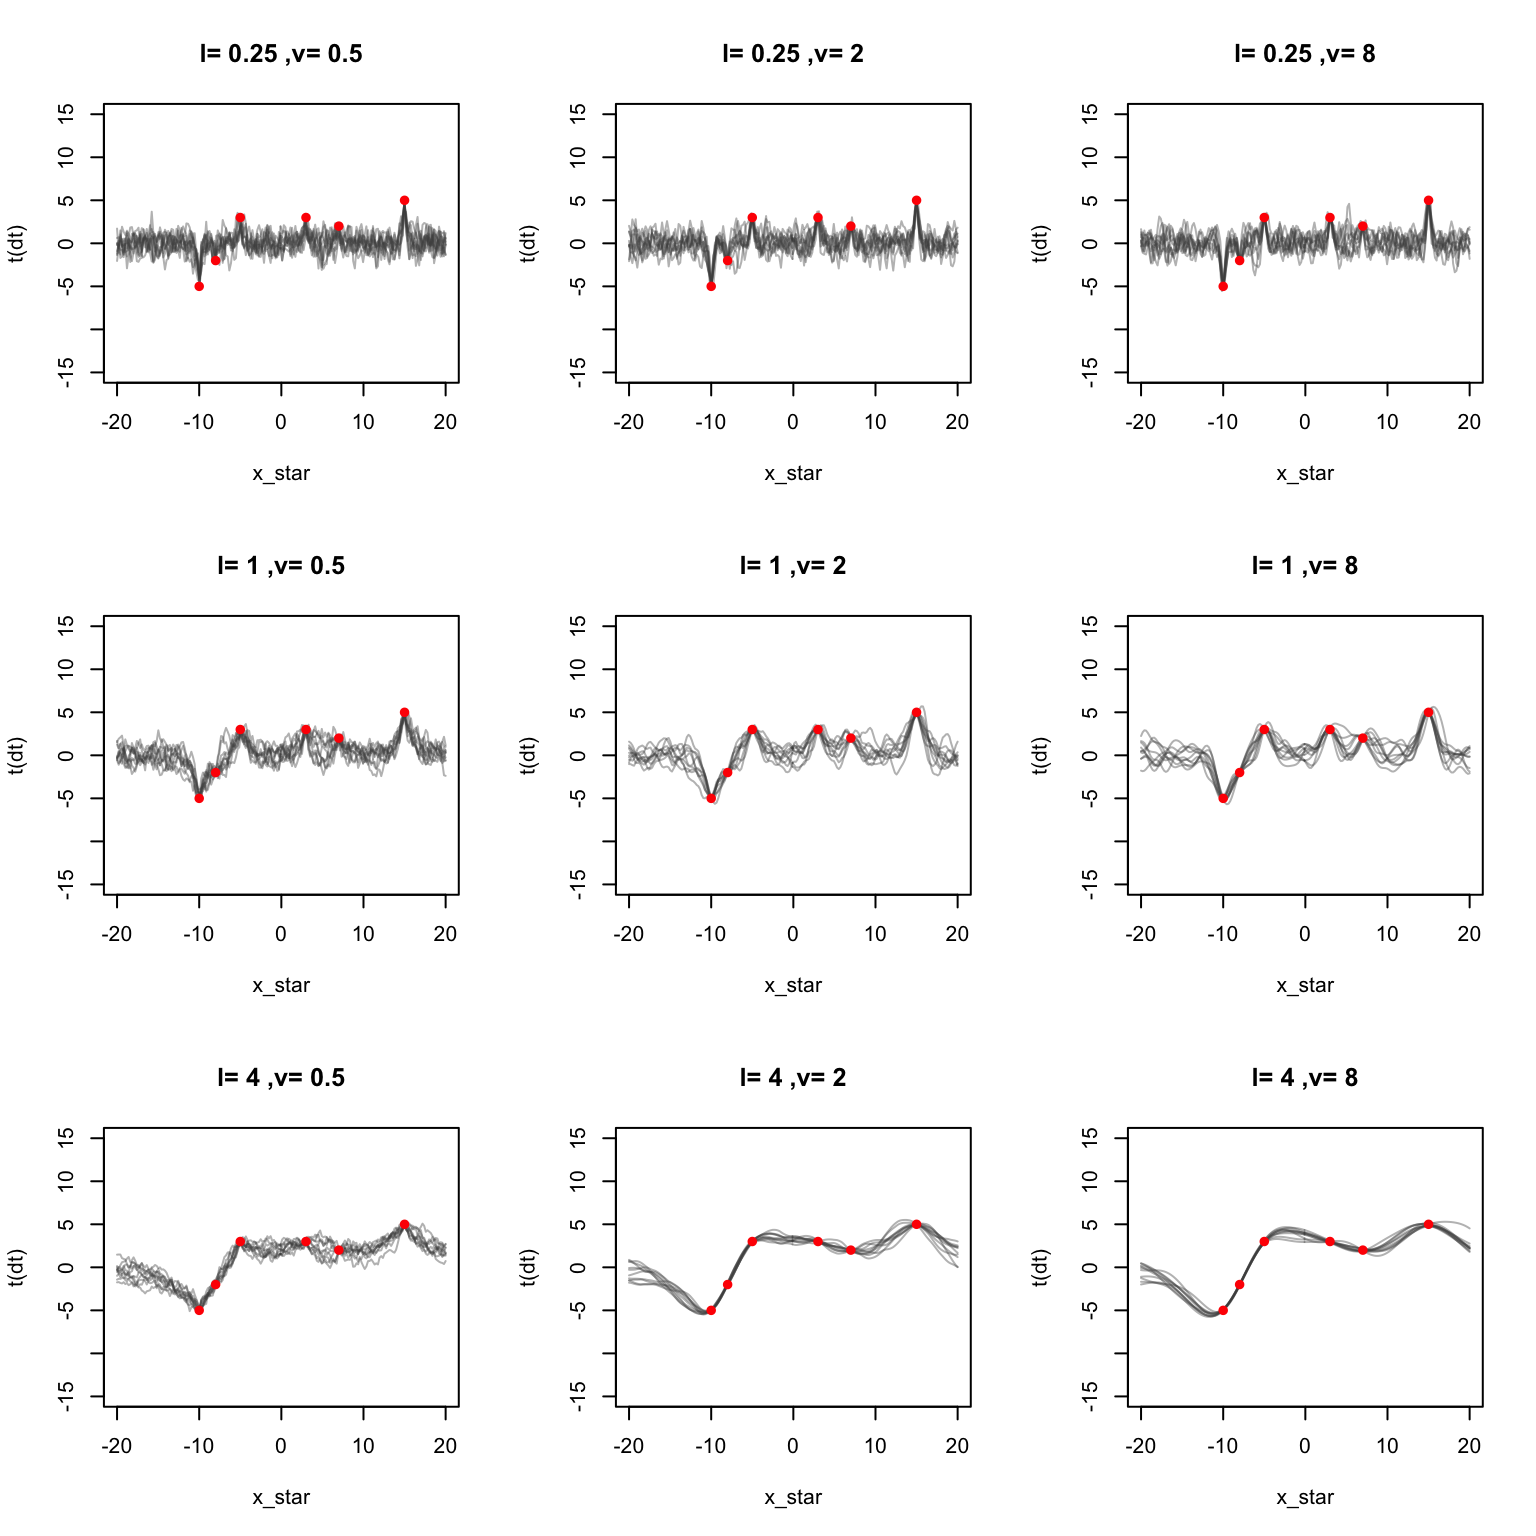
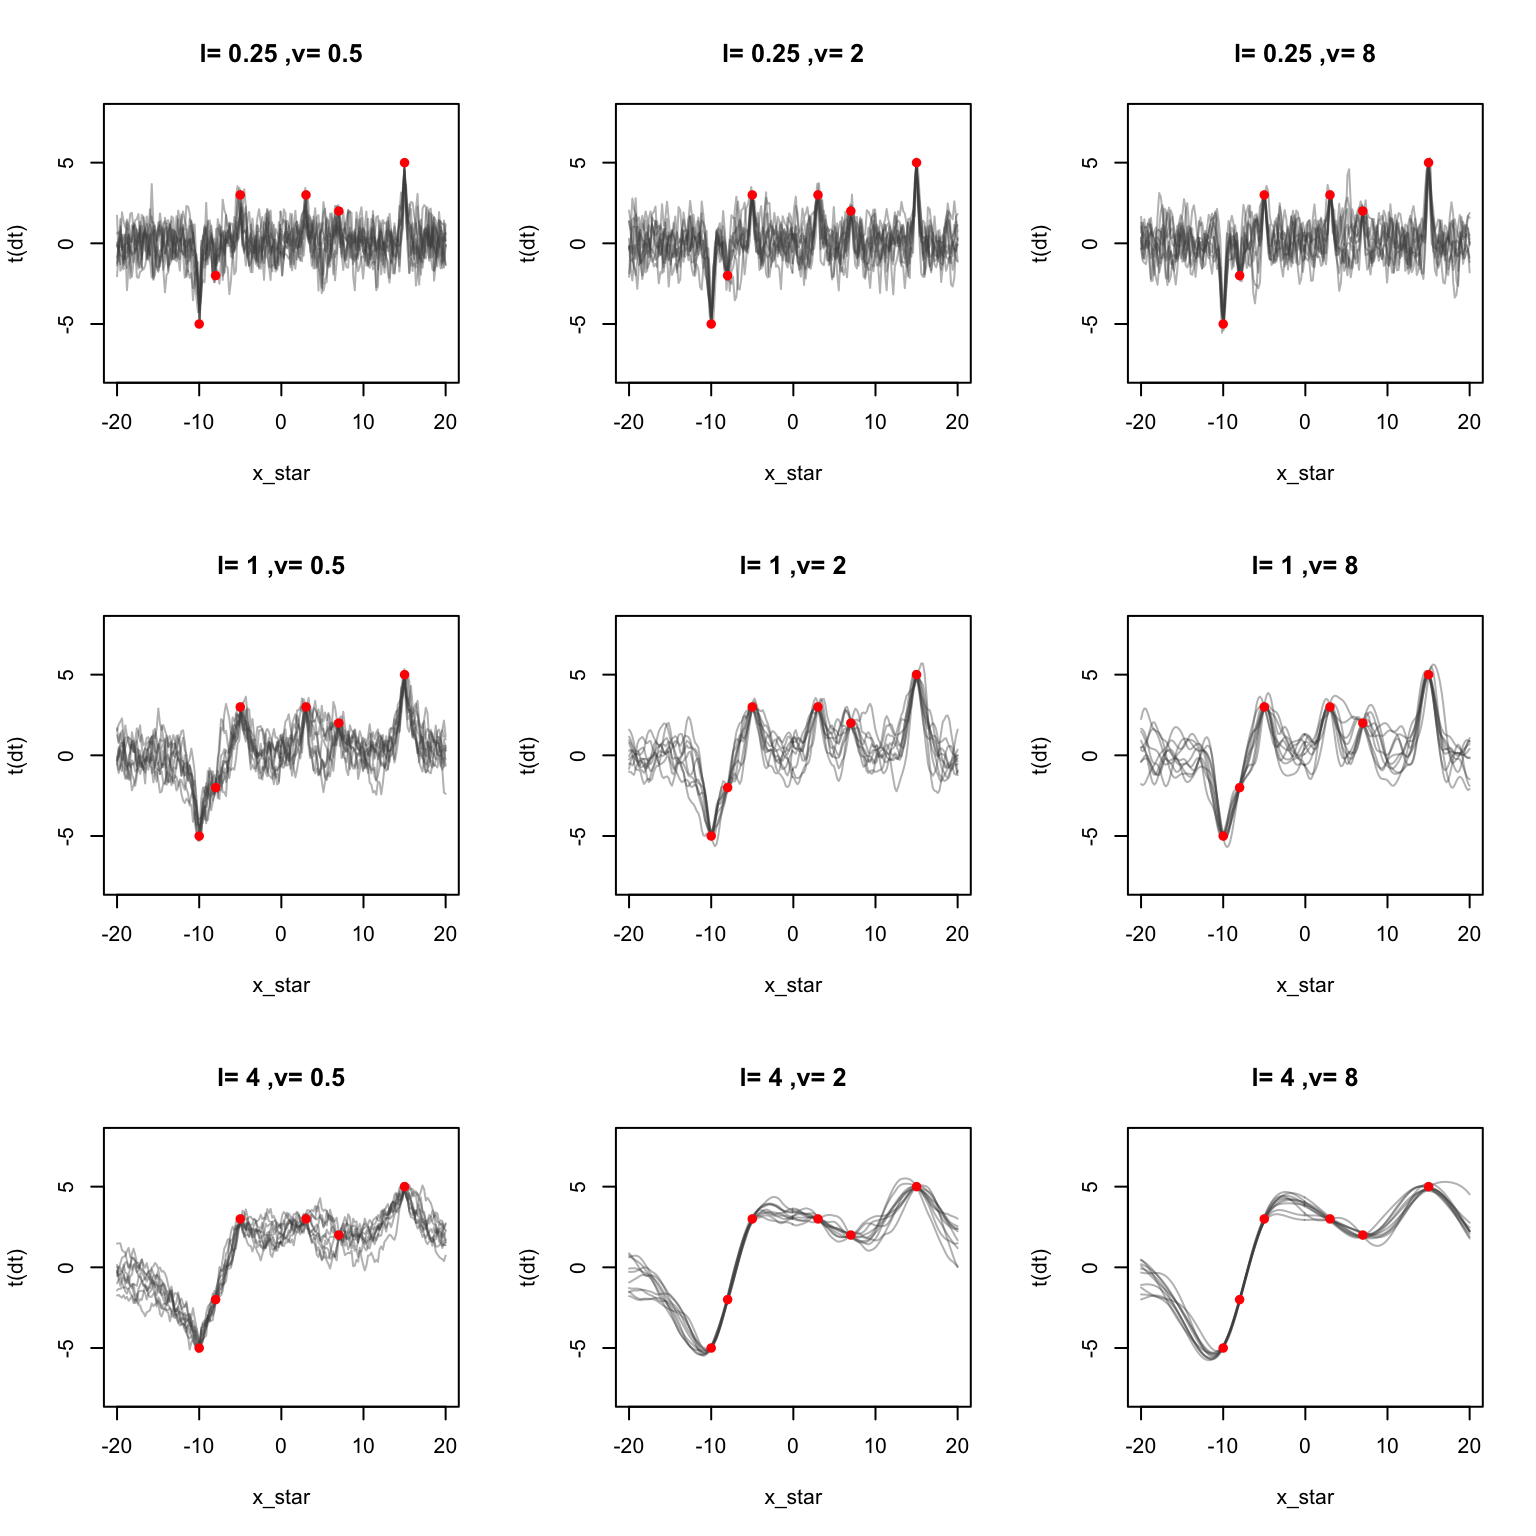
another tiny change

diff --git a/public/post/gp_python_r/index.html b/public/post/gp_python_r/index.html
@@ -229,11 +229,11 @@ x2 = np.random.rand(100)
 start = process_time()
 for i in range(50): sqexp_test = sqexp_kernel(get_r(x1, x2))
 print(&quot;SE kernel for rand:&quot; + str((process_time() - start) / 50), &quot; s&quot;)</code></pre>
-<pre><code>## SE kernel for rand:0.0006078399999999995  s</code></pre>
+<pre><code>## SE kernel for rand:0.0005926399999999887  s</code></pre>
 <pre class="python"><code>start = process_time()
 for i in range(50): matern_test = matern_kernel(get_r(x1, x2))
 print(&quot;Matern kernel for rand:&quot; + str((process_time() - start) / 50), &quot; s&quot;)</code></pre>
-<pre><code>## Matern kernel for rand:0.005904959999999999  s</code></pre>
+<pre><code>## Matern kernel for rand:0.006543400000000013  s</code></pre>
 </div>
 <div style="display: inline-block;vertical-align:top; width: 48%;">
 <h3 id="r-performance">R performance</h3>
@@ -242,11 +242,11 @@ x2 = runif(100)
 start = Sys.time()
 for(i in 1:50) se_test = sqexp_kernel(get_r(x1, x2))
 print(paste(&quot;SE kernel for rand:&quot;, (Sys.time() - start)/ 100, &quot;s&quot;))</code></pre>
-<pre><code>## [1] &quot;SE kernel for rand: 0.000420022010803223 s&quot;</code></pre>
+<pre><code>## [1] &quot;SE kernel for rand: 0.000433628559112549 s&quot;</code></pre>
 <pre class="r"><code>start = Sys.time()
 for(i in 1:50) matern_test = matern_kernel(get_r(x1, x2))
 print(paste(&quot;Matern kernel for rand:&quot;, (Sys.time() - start)/ 100, &quot;s&quot;))</code></pre>
-<pre><code>## [1] &quot;Matern kernel for rand: 0.00153196811676025 s&quot;</code></pre>
+<pre><code>## [1] &quot;Matern kernel for rand: 0.0015577507019043 s&quot;</code></pre>
 </div>
 <p>The results are quite comparable. I also checked the performance when it scales up, it’s still quite similar. In fact, especially for Matern kernel, when the size of the input vectors get big, I feel like it’s slightly faster to do it in R.</p>
 </div>
@@ -359,7 +359,7 @@ for (i in seq(length(l))) {
       l = l[i], v = v[j], n_samples = 10, random_seed = 100
     )
     matplot(x_star, t(dt), &quot;l&quot;, col = rgb(0.3, 0.3, 0.3, 0.4), lty = 1,
-            main = paste(&quot;l=&quot;, l[i], &quot;,v=&quot;, v[j]), ylim = c(-15, 15))
+            main = paste(&quot;l=&quot;, l[i], &quot;,v=&quot;, v[j]), ylim = c(-8, 8))
     points(x = x_train, y = y_train, pch = 16, col = &quot;red&quot;)
   }
 }</code></pre>

diff --git a/content/post/2019-09-12-Implementing-GP-in-R-and-Python.html b/content/post/2019-09-12-Implementing-GP-in-R-and-Python.html
@@ -96,11 +96,11 @@ x2 = np.random.rand(100)
 start = process_time()
 for i in range(50): sqexp_test = sqexp_kernel(get_r(x1, x2))
 print(&quot;SE kernel for rand:&quot; + str((process_time() - start) / 50), &quot; s&quot;)</code></pre>
-<pre><code>## SE kernel for rand:0.0006078399999999995  s</code></pre>
+<pre><code>## SE kernel for rand:0.0005926399999999887  s</code></pre>
 <pre class="python"><code>start = process_time()
 for i in range(50): matern_test = matern_kernel(get_r(x1, x2))
 print(&quot;Matern kernel for rand:&quot; + str((process_time() - start) / 50), &quot; s&quot;)</code></pre>
-<pre><code>## Matern kernel for rand:0.005904959999999999  s</code></pre>
+<pre><code>## Matern kernel for rand:0.006543400000000013  s</code></pre>
 </div>
 <div style="display: inline-block;vertical-align:top; width: 48%;">
 <h3 id="r-performance">R performance</h3>
@@ -109,11 +109,11 @@ x2 = runif(100)
 start = Sys.time()
 for(i in 1:50) se_test = sqexp_kernel(get_r(x1, x2))
 print(paste(&quot;SE kernel for rand:&quot;, (Sys.time() - start)/ 100, &quot;s&quot;))</code></pre>
-<pre><code>## [1] &quot;SE kernel for rand: 0.000420022010803223 s&quot;</code></pre>
+<pre><code>## [1] &quot;SE kernel for rand: 0.000433628559112549 s&quot;</code></pre>
 <pre class="r"><code>start = Sys.time()
 for(i in 1:50) matern_test = matern_kernel(get_r(x1, x2))
 print(paste(&quot;Matern kernel for rand:&quot;, (Sys.time() - start)/ 100, &quot;s&quot;))</code></pre>
-<pre><code>## [1] &quot;Matern kernel for rand: 0.00153196811676025 s&quot;</code></pre>
+<pre><code>## [1] &quot;Matern kernel for rand: 0.0015577507019043 s&quot;</code></pre>
 </div>
 <p>The results are quite comparable. I also checked the performance when it scales up, it’s still quite similar. In fact, especially for Matern kernel, when the size of the input vectors get big, I feel like it’s slightly faster to do it in R.</p>
 </div>
@@ -226,7 +226,7 @@ for (i in seq(length(l))) {
       l = l[i], v = v[j], n_samples = 10, random_seed = 100
     )
     matplot(x_star, t(dt), &quot;l&quot;, col = rgb(0.3, 0.3, 0.3, 0.4), lty = 1,
-            main = paste(&quot;l=&quot;, l[i], &quot;,v=&quot;, v[j]), ylim = c(-15, 15))
+            main = paste(&quot;l=&quot;, l[i], &quot;,v=&quot;, v[j]), ylim = c(-8, 8))
     points(x = x_train, y = y_train, pch = 16, col = &quot;red&quot;)
   }
 }</code></pre>
